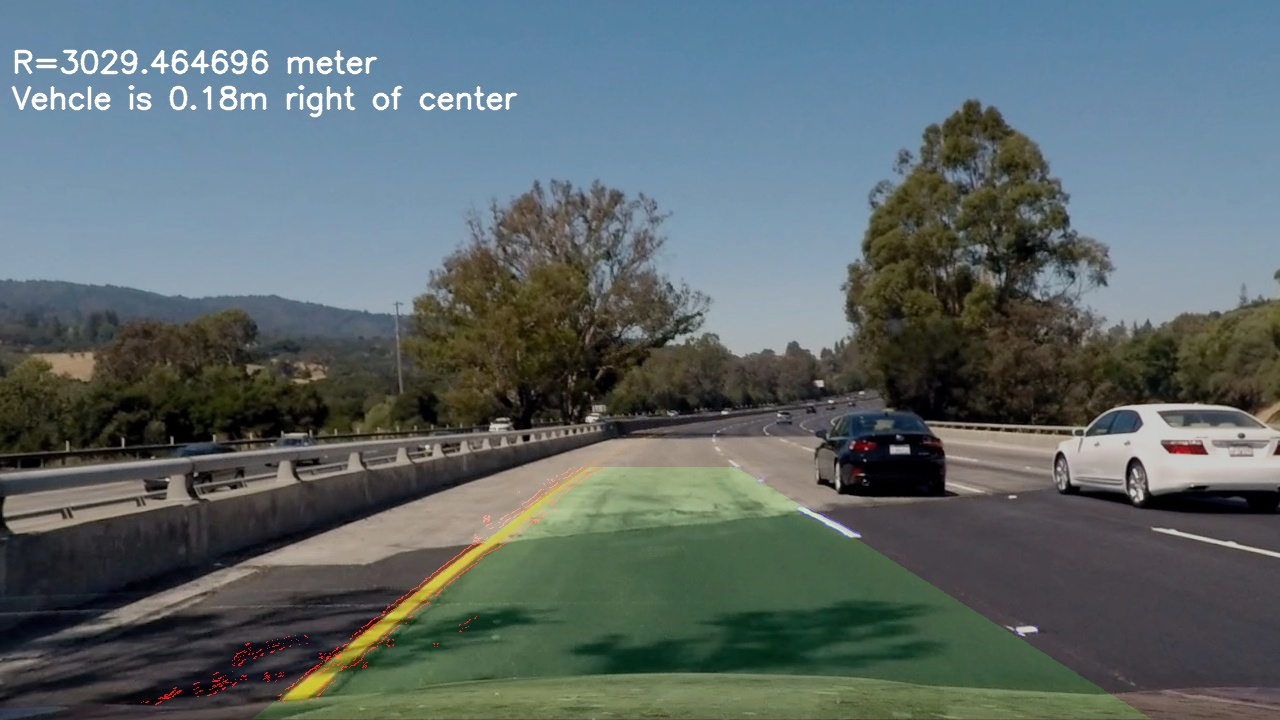
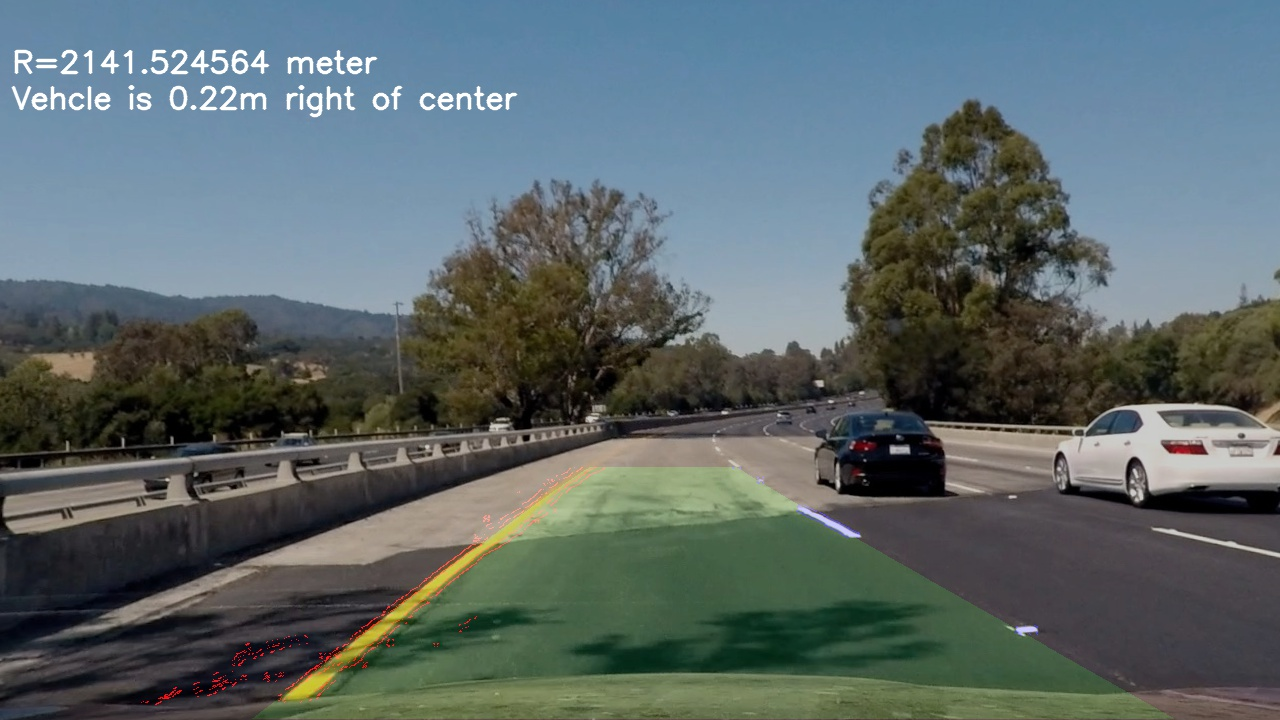
code update before submission.

diff --git a/my_work/find_lane.py b/my_work/find_lane.py
@@ -45,9 +45,10 @@ for image_file in test_file_name:
 #    binary = np.zeros_like(gray)
 #    binary[(gray > thresh[0]) & (gray <= thresh[1])] = 1
     
-    R = image[:,:,0]
-#    G = image[:,:,1]
-#    B = image[:,:,2]
+    image_normalize = (image_undistort - np.mean(image_undistort))/np.std(image_undistort)*32+128
+    R = image_normalize[:,:,0]
+    G = image_normalize[:,:,1]
+
     
     Rdash = ((R - np.mean(R))/np.std(R))
     
@@ -117,7 +118,7 @@ for image_file in test_file_name:
  #   plt.imshow(dir_binary,cmap='gray')
  #   plt.show()
     combined = np.zeros_like(hls_binary)
-    combined[((gradx == 1) & (grady == 1)) | ((mag_binary == 1) & (dir_binary == 1))] = 1
+    combined[(((gradx == 1) & (grady == 1)) | ((mag_binary == 1) & (dir_binary == 1))) | ((R>128+48) & (G>128+48))] = 1
  #   plt.title('COMBINED')
  #   plt.imshow(combined,cmap='gray')
  #   plt.show()

diff --git a/my_work/find_lane_from_frame_seq.py b/my_work/find_lane_from_frame_seq.py
@@ -171,7 +171,7 @@ cv2.namedWindow('line',cv2.WINDOW_NORMAL)
 ## Where start_second and end_second are integer values representing the start and end of the subclip
 ## You may also uncomment the following line for a subclip of the first 5 seconds
 ##clip1 = VideoFileClip("test_videos/solidWhiteRight.mp4").subclip(0,5)
-if ( 1 ):
+if ( 0 ):
     history_left_x = []
     history_left_y = []
     history_right_x = []
